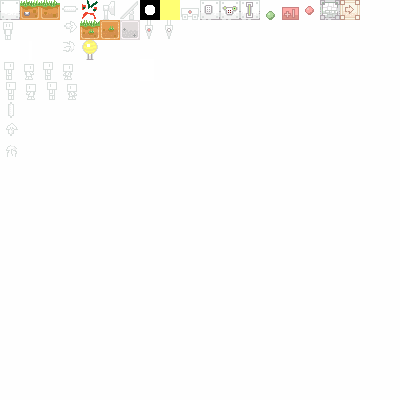
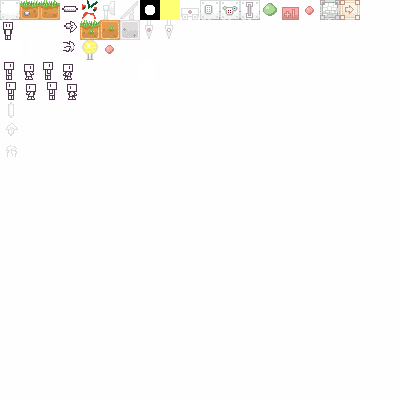
Sentry. Make bullets and stuff more visually apparent.

diff --git a/main.py b/main.py
@@ -755,7 +755,6 @@ class Pickup(Entity):
 
   def pickup(self, ch):
     ch.heal(3)
-    print "up"
 
 class Enemy(Entity):
   STRATEGY_STUPID = 0
@@ -767,6 +766,7 @@ class Enemy(Entity):
     self.speed = 3
     self.type = type
     self.hp = Enemy.hp[self.type]
+    self.ticker = 0
 
     self.direction = [1, 0]
     if self.type == Enemy.STRATEGY_STUPID:
@@ -813,7 +813,16 @@ class Enemy(Entity):
     self.y -= dir[1]
 
   def be_sentry(self, entities, ch):
-    pass
+    if Tick.get(20):
+      self.ticker += 1
+      self.img = TileSheet.get("tiles.png", 7 + self.ticker % 2, 1)
+
+    if Tick.get(20):
+      spd = 1
+      mag = math.sqrt((self.x - ch.x) ** 2 + (self.y - ch.y) ** 2)
+      direct = (spd * (ch.x - self.x) / mag, spd * (ch.y - self.y) / mag)
+      b = Bullet(self, direct, 1)
+      entities.add(b)
   
   def be_stupid(self, entities):
     self.x += self.direction[0]
@@ -989,11 +998,15 @@ class Bullet(Entity):
     self.dmg = dmg
     self.dying = False
 
+    self.char_is_owner = "character" in owner.groups
+
     if "character" in owner.groups:
       if direction[1] == 0:
         super(Bullet, self).__init__(owner.x, owner.y + random.randrange(-4, 4), ["renderable", "updateable", "bullet", "relative", "map_element"], 3, 0, "tiles.png")
       else:
         super(Bullet, self).__init__(owner.x + random.randrange(-4, 4), owner.y, ["renderable", "updateable", "bullet", "relative", "map_element"], 0, 5, "tiles.png")
+    else:
+      super(Bullet, self).__init__(owner.x, owner.y, ["renderable", "updateable", "bullet", "relative", "map_element"], 5, 2, "tiles.png") # why not 0, 15? i have no idea!
 
     self.x += int(direction[0] * owner.size / 2)
     self.y += int(direction[1] * owner.size / 2)
@@ -1034,11 +1047,18 @@ class Bullet(Entity):
       self.die()
       return
 
-    enemies_hit = entities.get("enemy", hitlambda)
-    if len(enemies_hit) > 0:
-      entities.remove(self)
-      enemies_hit[0].hurt(self.dmg, entities, self.direction)
-      return
+    if self.char_is_owner:
+      enemies_hit = entities.get("enemy", hitlambda)
+      if len(enemies_hit) > 0:
+        self.die()
+        enemies_hit[0].hurt(self.dmg, entities, self.direction)
+        return
+    else:
+      ch = entities.get("character", hitlambda)
+      if len(ch) > 0:
+        ch[0].hurt(1)
+        self.die()
+        return
 
 class Character(Entity):
   def __init__(self, x, y, entities):
